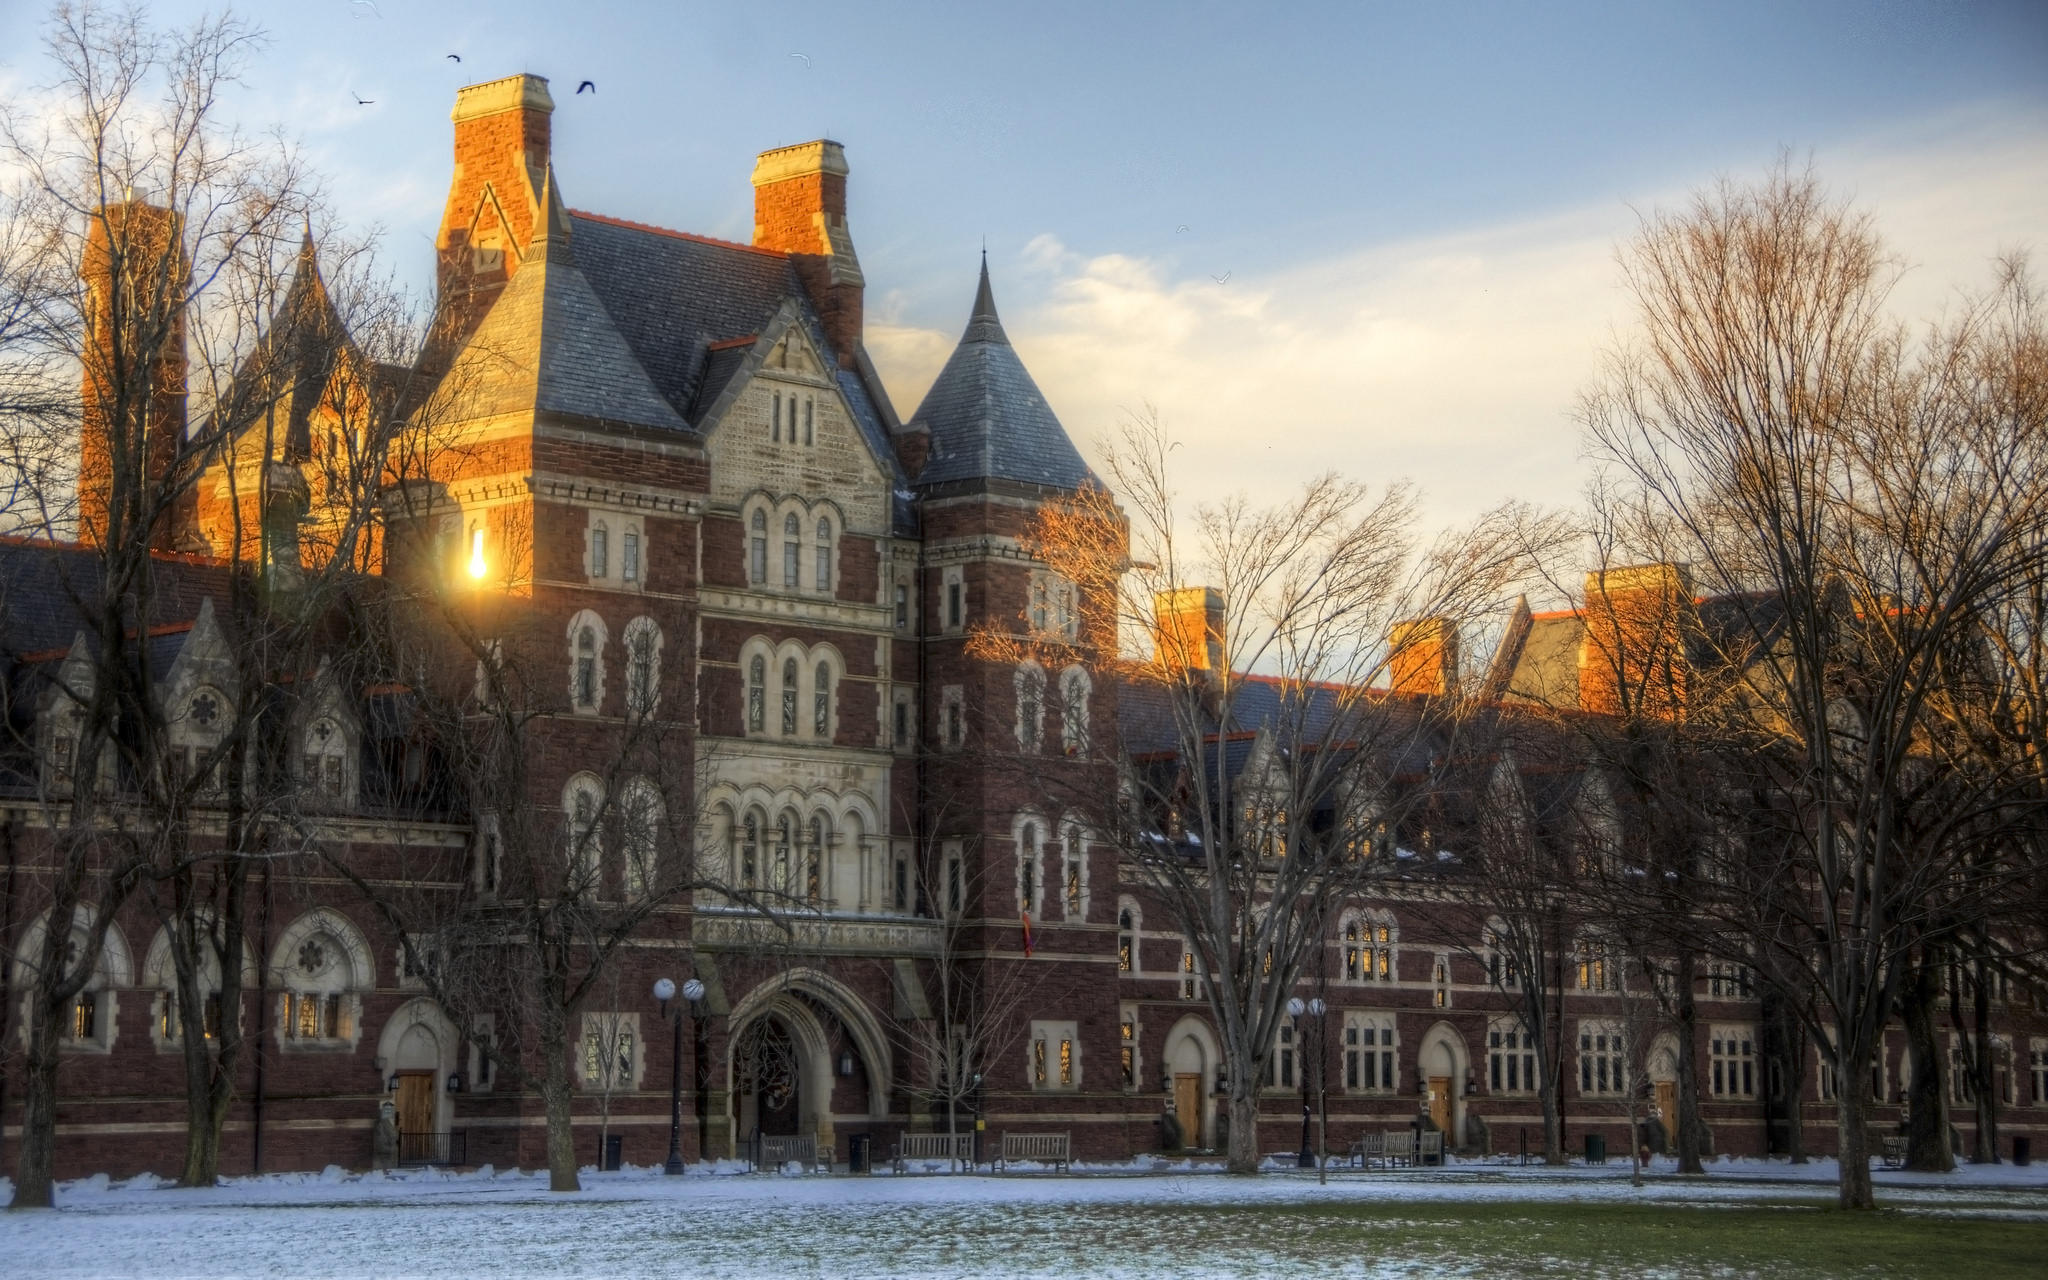
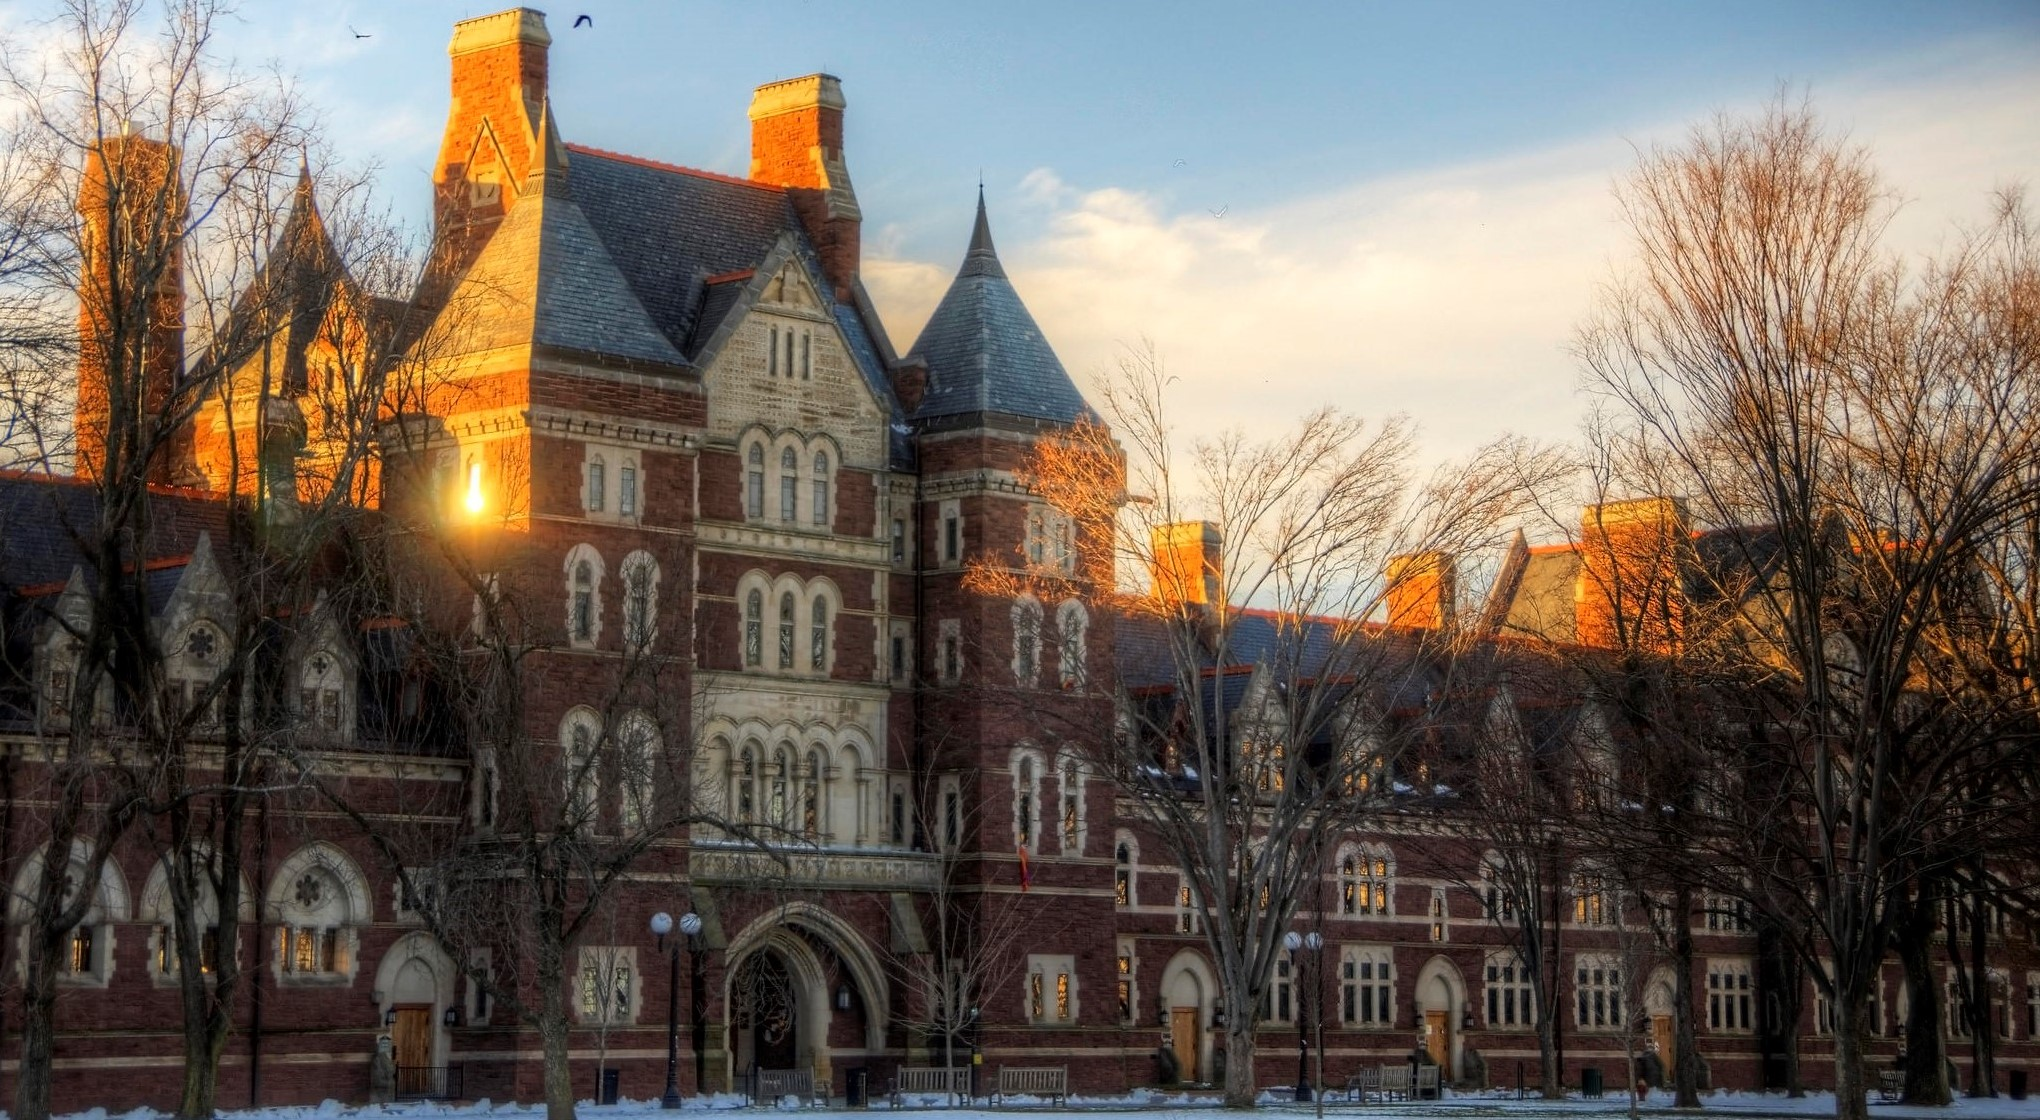
Commit

diff --git a/assets/css/main.css b/assets/css/main.css
@@ -2188,7 +2188,7 @@ input, select, textarea {
 	.button {
 		background-color: transparent;
 		box-shadow: inset 0 0 0 1px rgba(0, 0, 0, 0.2);
-		color: #000000 !important;
+		color:black !important;
 	}
 
 		input[type="submit"]:hover,
@@ -2215,7 +2215,7 @@ input, select, textarea {
 		input[type="button"].primary,
 		button.primary,
 		.button.primary {
-			background-color: #000000;
+			background-color:white;
 			box-shadow: none;
 			color: #ffffff !important;
 		}
@@ -3830,6 +3830,7 @@ input, select, textarea {
 				position: relative;
 				text-align: left;
 				overflow-x: hidden;
+				color:white;
 			}
 		
 				.banner.style3 .content{
@@ -3837,7 +3838,6 @@ input, select, textarea {
 					max-width: 100%;
 					color: white;
 				}
-		
 				.banner.style3 .image {
 					background-attachment: fixed;
 					-moz-flex-grow: 0;
@@ -3852,49 +3852,36 @@ input, select, textarea {
 					height: 21rem;
 					border-radius: 100%;
 					margin: 0 3.5rem 2rem 0;
+					color:white;
 				}
 		
-					.banner.style3 .image img{
-						-moz-object-fit: cover;
-						-webkit-object-fit: cover;
-						-ms-object-fit: cover;
-						object-fit: cover;
-						-moz-object-position: center;
-						-webkit-object-position: center;
-						-ms-object-position: center;
-						object-position: center;
-						display: block;
-						width: 100%;
-						height: 100%;
-						border-radius: 100%;
-					}
+				.banner.style3 .image img{
+					-moz-object-fit: cover;
+					-webkit-object-fit: cover;
+					-ms-object-fit: cover;
+					object-fit: cover;
+					-moz-object-position: center;
+					-webkit-object-position: center;
+					-ms-object-position: center;
+					object-position: center;
+					display: block;
+					width: 100%;
+					height: 100%;
+					border-radius: 100%;
+					color: white;
+				}
+			
 					.banner.style3 {
 						background-attachment: fixed;
-						background-color: #272833;
-						background-image: url("../../images/trinity3.jpg");
-						background-position: center;
+						background-image: url("../../images/Trinity5ADJ.jpg");
+						background-position: bottom left;
 						background-size: cover;
 						min-height: 100vh;
 						position: relative;
 						text-align: center;
 						z-index: 21;
+						color: white;
 					}
-					.banner.style3::before{
-						background-image: -moz-linear-gradient(top, rgba(23, 24, 32, 0.50), rgba(23, 24, 32, 0.50)), url("images/overlay.png");;
-						background-image: -webkit-linear-gradient(top, rgba(23, 24, 32, 0.50), rgba(23, 24, 32, 0.50)), url("images/overlay.png");;
-						background-image: -ms-linear-gradient(top, rgba(23, 24, 32, 0.50), rgba(23, 24, 32, .50)), url("images/overlay.png");;
-						background-image: linear-gradient(top, rgba(23, 24, 32, 0.50), rgba(23, 24, 32, 0.50)), url("images/overlay.png");;
-						content: '';
-						display: block;
-						height: 100%;
-						left: 0;
-						position: absolute;
-						top: 0;
-						width: 100%;
-					}
-					
-				
-		
 				@media screen and (max-width: 1680px) {
 		
 					.banner.style3 {
